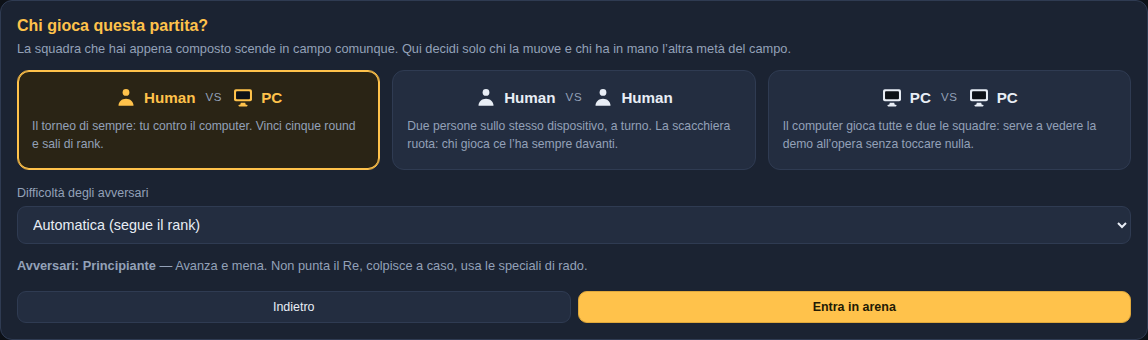
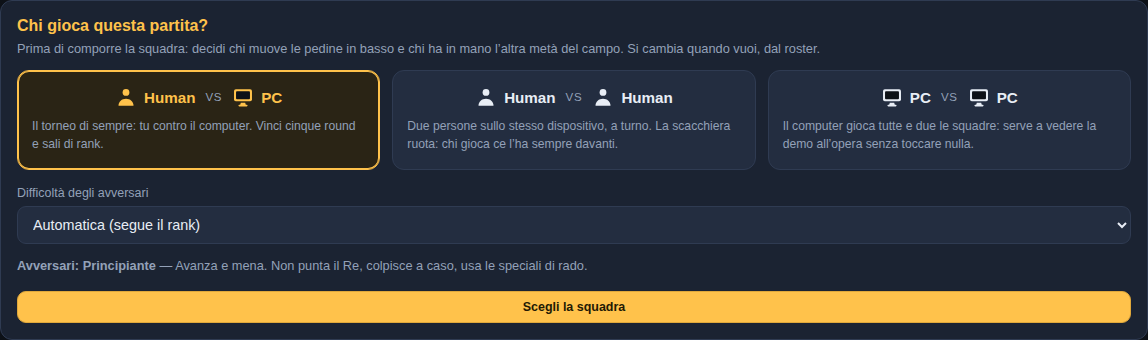
feat(insectron): la scelta di chi gioca apre il gioco
«Chi gioca questa partita?» non sta più dopo il riepilogo della squadra: è la
prima schermata che si vede entrando nel gioco, prima di comporre il quintetto.

- Human vs PC, Human vs Human e PC vs PC (con i livelli dell'IA, e i nomi dei
  due giocatori in Human vs Human) si scelgono all'ingresso
- dal roster una fascia in cima ricorda la modalità scelta, con il pulsante
  «Cambia» che riapre la schermata e una via di ritorno alla squadra
- «Entra in arena» torna a portare dritto in campo; in Human vs Human la
  conferma del primo giocatore passa il dispositivo al secondo
- la modalità viene ricordata nel salvataggio locale: riaprendo il gioco la
  carta giusta è già selezionata

Verifiche: 209 controlli automatici sul gioco (44 sulla schermata di scelta e su
PC vs PC, 32 su Human vs Human, 18 sulla rotazione, più le suite esistenti
riallineate al nuovo ordine), 10 sulla landing, zero falliti, 3 partite di
carriera complete via UI, nessun errore in console, HTMLHint pulito.

Claude-Session: https://claude.ai/code/session_016zpL6b9XJB8AxtfVg9ovRJ

Changed region(s): [[0.0, 0.8529, 0.5488, 0.9706], [0.0, 0.1176, 0.7317, 0.1765], [0.7012, 0.8824, 0.7927, 0.9118]]

diff --git a/demos/insectron-arena/gioca.html b/demos/insectron-arena/gioca.html
@@ -297,9 +297,13 @@ button.danger{border-color:#7d3a3a;color:#ffb3b3}
 .banner b{color:var(--text)}
 .banner.e{border-left-color:var(--foe)}
 .banner .tag{
+  display:inline-flex;align-items:center;gap:6px;white-space:nowrap;
   background:#12354a;border:1px solid var(--ally);color:var(--ally);
   border-radius:999px;padding:3px 11px;font-size:.72rem;font-weight:bold
 }
+.banner .tag .ico{width:15px;height:15px}
+.banner .tag i{font-style:normal;font-weight:normal;opacity:.7;font-size:.66rem;text-transform:uppercase}
+.banner .kbtn{font-size:.72rem;padding:5px 12px}
 .banner.e .tag{background:#4a1c1c;border-color:var(--foe);color:var(--foe)}
 .names{display:flex;gap:12px;flex-wrap:wrap;margin-bottom:14px}
 .names label{flex:1;min-width:190px;font-size:.78rem;color:var(--muted);display:block}
@@ -377,22 +381,22 @@ footer.note a{color:var(--accent2)}
 </header>
 
 <!-- ============ CHI GIOCA: MODALITA E DIFFICOLTA ============ -->
-<section id="s-mode" class="screen">
+<section id="s-mode" class="screen on">
   <div class="card">
     <h2>Chi gioca questa partita?</h2>
-    <p class="hint">La squadra che hai appena composto scende in campo comunque. Qui decidi
-      solo chi la muove e chi ha in mano l’altra metà del campo.</p>
+    <p class="hint">Prima di comporre la squadra: decidi chi muove le pedine in basso e chi
+      ha in mano l’altra metà del campo. Si cambia quando vuoi, dal roster.</p>
     <div class="modes" id="modes" role="group" aria-label="Modalità di gioco"></div>
     <div id="modeopts"></div>
     <div class="acts" style="margin-top:16px">
-      <button id="btn-modeback">Indietro</button>
+      <button id="btn-modeback" hidden>Torna alla squadra</button>
       <button id="btn-modego" class="primary">Entra in arena</button>
     </div>
   </div>
 </section>
 
 <!-- ============ SCHERMATA SQUADRA ============ -->
-<section id="s-team" class="screen on">
+<section id="s-team" class="screen">
   <p class="banner" id="team-who" hidden></p>
   <div class="two">
     <div class="card">
@@ -737,7 +741,7 @@ function save(){
   const k = S.careerHeld ? S.career.king : S.kingId;
   try { localStorage.setItem("insectron", JSON.stringify(
     {r:S.rankIdx, n:S.round, t:t, k:k, c:S.champion ? 1 : 0,
-     a:S.lvl.e||0, ap:S.lvl.p||0})); }
+     a:S.lvl.e||0, ap:S.lvl.p||0, v:S.vs})); }
   catch(e){ /* storage non disponibile: la partita resta valida in sessione */ }
 }
 function load(){
@@ -746,6 +750,7 @@ function load(){
     if (v && Array.isArray(v.t)){
       S.rankIdx = v.r|0; S.round = v.n|0; S.champion = !!v.c;
       S.lvl = { e: (v.a|0) || 0, p: (v.ap|0) || 0 };
+      if (MODES[v.v]) S.vs = v.v;
       S.team = v.t.filter(id => byId[id] && unlocked(byId[id]));
       S.kingId = S.team.includes(v.k) ? v.k : (S.team[0] || null);
     }
@@ -962,16 +967,21 @@ function icoPc(){
 }
 const MODES = {
   hvp: { ico:[icoHuman(), icoPc()],   tit:["Human","PC"],
-         desc:"Il torneo di sempre: tu contro il computer. Vinci cinque round e sali di rank." },
+         desc:"Il torneo di sempre: tu contro il computer. Vinci cinque round e sali di rank.",
+         breve:"Giochi tu contro il computer." },
   hvh: { ico:[icoHuman(), icoHuman()], tit:["Human","Human"],
-         desc:"Due persone sullo stesso dispositivo, a turno. La scacchiera ruota: chi gioca ce l\u2019ha sempre davanti." },
+         desc:"Due persone sullo stesso dispositivo, a turno. La scacchiera ruota: chi gioca ce l\u2019ha sempre davanti.",
+         breve:"Partita in due sullo stesso dispositivo." },
   pvp: { ico:[icoPc(), icoPc()],       tit:["PC","PC"],
-         desc:"Il computer gioca tutte e due le squadre: serve a vedere la demo all\u2019opera senza toccare nulla." }
+         desc:"Il computer gioca tutte e due le squadre: serve a vedere la demo all\u2019opera senza toccare nulla.",
+         breve:"Il computer gioca tutte e due le squadre." }
 };
 const LIVELLI = [[0,"Automatica (segue il rank)"],[1,"Principiante"],[2,"Normale"],[3,"Esperto"],[4,"Campione"]];
-/* Apre la scelta "chi gioca". Arriva dopo la squadra: a quel punto il quintetto
-   e' gia' deciso e resta lo stesso in tutte e tre le modalita'. */
-function openModes(){
+/* Apre la scelta "chi gioca". E' la prima schermata del gioco: si decide chi muove
+   prima ancora di comporre la squadra. Dal roster ci si torna col pulsante "Cambia",
+   e in quel caso compare anche la via di ritorno. */
+function openModes(dalRoster){
+  $("#btn-modeback").hidden = !dalRoster;
   drawModes(); show("s-mode");
 }
 function drawModes(){
@@ -1012,13 +1022,13 @@ function drawModeOpts(){
       '<label for="n1">Nome di chi gioca in basso<input id="n1" maxlength="16" autocomplete="off" value="' + esc(S.names.p) + '"></label>' +
       '<label for="n2">Nome di chi gioca in alto<input id="n2" maxlength="16" autocomplete="off" value="' + esc(S.names.e) + '"></label>' +
       '</div>' +
-      '<p class="hint">La squadra che hai appena composto \u00e8 di chi gioca in basso. ' +
-      'Dopo la conferma sceglie l\u2019altro, senza che tu guardi.</p>';
+      '<p class="hint">Sceglie prima chi gioca in basso; quando ha confermato la sua squadra ' +
+      'tocca all\u2019altro, senza che il primo guardi.</p>';
   } else if (pcMode()){
     el.innerHTML = '<div class="opts">' + sel("lv-p", "Difficolt\u00e0 del PC in basso", "p") +
       sel("lv-e", "Difficolt\u00e0 del PC in alto", "e") + '</div>' +
       '<p class="hint" id="lvdesc"></p>' +
-      '<p class="hint">Il PC in basso gioca la squadra che hai composto tu, quello in alto ' +
+      '<p class="hint">Il PC in basso gioca la squadra che comporrai tu, quello in alto ' +
       'pesca dagli avversari del rank corrente. La partita non conta per il torneo.</p>';
   } else {
     el.innerHTML = '<div class="opts">' + sel("lv-e", "Difficolt\u00e0 degli avversari", "e") + '</div>' +
@@ -1029,7 +1039,7 @@ function drawModeOpts(){
     if (s2) s2.onchange = ev => { S.lvl[side] = parseInt(ev.target.value, 10) || 0; save(); lvDesc(); };
   });
   const go = $("#btn-modego");
-  go.textContent = duoMode() ? "Passa la scelta all\u2019altro giocatore" : "Entra in arena";
+  go.textContent = duoMode() ? "Scegliete le squadre" : "Scegli la squadra";
   lvDesc();
 }
 function lvDesc(){
@@ -1041,21 +1051,20 @@ function lvDesc(){
   });
   el.innerHTML = righe.join("<br>");
 }
+/* Confermata la modalita' si passa al roster. La partita comincia piu' tardi, dal
+   riepilogo, quando la squadra (o le squadre) sono pronte. */
 function modeGo(){
   if (duoMode()){
     const leggi = (id, def) => (($(id) && $(id).value) || "").trim().slice(0,16) || def;
     S.names.p = leggi("#n1", "Giocatore 1");
     S.names.e = leggi("#n2", "Giocatore 2");
-    S.duo = { p:{ team: S.team.slice(), king: S.kingId }, e:{ team:[], king:null } };
-    S.career = { team: S.team.slice(), king: S.kingId };   /* la squadra del torneo resta questa */
-    S.careerHeld = true;                                   /* protetta finche' non si torna al roster */
-    passTo("e", "Scegli la squadra",
-      "Adesso tocca a te: cinque pedine e il Re, senza far guardare l\u2019altro.",
-      () => enterSetup("e"));
-    return;
+    S.duo = { p:{ team:[], king:null }, e:{ team:[], king:null } };
   }
   save();
-  if (pcMode()) startPvp(); else startBattle();
+  backToCareer();                                 /* se si arriva da una partita in due */
+  S.setup = "p";
+  drawWho(); drawRoster(); drawSlots(); detail(S.look ? byId[S.look] : null);
+  show("s-team");
 }
 function enterSetup(side){
   S.setup = side;
@@ -1076,13 +1085,28 @@ function backToCareer(){
    capisce piu' di chi sia la squadra a schermo. */
 function drawWho(){
   const duo = duoMode() && S.setup === "e", side = S.setup;
-  [["#team-who", "sceglie la squadra"], ["#brief-who", "controlla la squadra e nomina il Re"]].forEach(([sel, txt]) => {
-    const el = $(sel); if (!el) return;
-    el.hidden = !duo;
-    el.className = "banner" + (side === "e" ? " e" : "");
-    if (duo) el.innerHTML = '<span class="tag">' + (side === "p" ? "In basso" : "In alto") +
-      '</span><span><b>' + esc(nameOf(side)) + '</b> ' + txt + '. L\u2019altro giocatore non deve guardare.</span>';
-  });
+  const m = MODES[S.vs];
+  const chi = '<span class="tag">' + m.ico[0] + m.tit[0] + ' <i>vs</i> ' + m.ico[1] + m.tit[1] + '</span>';
+  /* Sul roster il banner ricorda la modalita' scelta e offre la via per cambiarla;
+     quando sta scegliendo il secondo giocatore dice invece di chi e' il turno. */
+  const team = $("#team-who");
+  if (team){
+    team.hidden = false;
+    team.className = "banner" + (duo ? " e" : "");
+    team.innerHTML = chi + '<span>' + (duo
+      ? '<b>' + esc(nameOf(side)) + '</b> sceglie la squadra. L\u2019altro giocatore non deve guardare.'
+      : m.breve) + '</span>' +
+      (duo ? '' : '<span class="spacer"></span><button class="kbtn" id="btn-chmode">Cambia</button>');
+    const ch = $("#btn-chmode");
+    if (ch) ch.onclick = () => openModes(true);
+  }
+  const brief = $("#brief-who");
+  if (brief){
+    brief.hidden = !duo;
+    brief.className = "banner e";
+    if (duo) brief.innerHTML = chi + '<span><b>' + esc(nameOf(side)) +
+      '</b> controlla la squadra e nomina il Re. L\u2019altro giocatore non deve guardare.</span>';
+  }
   const t = $("#brief-title");
   if (t) t.textContent = duo && side === "e" ? "La squadra di " + nameOf(side) : "La tua squadra";
   const a = $("#btn-toarena");
@@ -2145,14 +2169,26 @@ function leaveMatch(){ S.matchMode = "hvp"; updBadges(); }
 
 $("#btn-start").onclick = () => { drawWho(); drawBrief(); show("s-brief"); };
 $("#btn-back").onclick = () => { drawWho(); drawRoster(); drawSlots(); show("s-team"); };
-/* Dal riepilogo non si entra piu' dritti in campo: prima si sceglie chi gioca.
-   L'unica eccezione e' il secondo giocatore di una partita in due, che a quel
-   punto la modalita' ce l'ha gia' e passa allo schieramento. */
+/* Dal riepilogo si scende in campo. In due giocatori il primo, confermando, passa
+   il dispositivo all'altro: si scende in campo quando anche la seconda squadra c'e'. */
 $("#btn-toarena").onclick = () => {
-  if (duoMode() && S.setup === "e"){ commitSetup(); startDuo(); return; }
-  openModes();
+  if (duoMode()){
+    commitSetup();
+    if (S.setup === "p"){
+      S.career = { team: S.team.slice(), king: S.kingId };  /* la squadra del torneo resta questa */
+      S.careerHeld = true;                                  /* protetta finche' non si torna al roster */
+      passTo("e", "Scegli la squadra",
+        "Adesso tocca a te: cinque pedine e il Re, senza far guardare l\u2019altro.",
+        () => enterSetup("e"));
+    } else {
+      startDuo();
+    }
+    return;
+  }
+  if (pcMode()){ startPvp(); return; }
+  startBattle();
 };
-$("#btn-modeback").onclick = () => { drawWho(); drawBrief(); show("s-brief"); };
+$("#btn-modeback").onclick = () => { drawWho(); drawRoster(); drawSlots(); show("s-team"); };
 $("#btn-modego").onclick = modeGo;
 $("#btn-pass").onclick = passDone;
 $("#btn-newteams").onclick = () => {
@@ -2201,7 +2237,7 @@ $("#btn-reset").onclick = () => {
   save(); updBadges(); drawRoster(); drawSlots(); show("s-team");
 };
 
-load(); updBadges(); drawRoster(); drawSlots(); detail(null);
+load(); updBadges(); drawRoster(); drawSlots(); detail(null); drawModes();
 </script>
 </body>
 </html>

diff --git a/demos/insectron-arena/index.html b/demos/insectron-arena/index.html
@@ -163,7 +163,7 @@ footer p{margin-bottom:9px}
       </div>
       <div class="card">
         <h3>Scegli chi gioca</h3>
-        <p>Composta la squadra, decidi la partita: <b>Human vs PC</b> per il torneo, <b>Human vs Human</b> sullo stesso dispositivo, <b>PC vs PC</b> per guardarla giocare da sola. Col computer in campo scegli anche quanto è bravo.</p>
+        <p>È la prima cosa che vedi: <b>Human vs PC</b> per il torneo, <b>Human vs Human</b> sullo stesso dispositivo, <b>PC vs PC</b> per guardarla giocare da sola. Col computer in campo scegli anche quanto è bravo.</p>
       </div>
       <div class="card">
         <h3>In due, a turno</h3>
@@ -195,7 +195,7 @@ footer p{margin-bottom:9px}
       <figure>
         <img src="img/modalita.png" width="1148" height="340" loading="lazy"
              alt="Schermata di scelta: tre carte affiancate, Human contro PC, Human contro Human e PC contro PC, ognuna con le icone di chi gioca, e sotto il selettore della difficoltà.">
-        <figcaption>Chi gioca questa partita. Le icone dicono a colpo d'occhio chi muove le due squadre.</figcaption>
+        <figcaption>La prima schermata del gioco. Le icone dicono a colpo d'occhio chi muove le due squadre.</figcaption>
       </figure>
       <figure>
         <img src="img/due-giocatori.png" width="1220" height="760" loading="lazy"
@@ -223,7 +223,7 @@ footer p{margin-bottom:9px}
     </table>
     <ul class="clean" style="margin-top:26px">
       <li><b>1800 battaglie simulate</b> a ogni modifica delle regole, per tenere l'equilibrio sotto controllo.</li>
-      <li><b>200 controlli automatici</b> su meccaniche, schieramento, movimento, difficoltà, accessibilità, scelta della modalità, partita in due e rotazione della scacchiera.</li>
+      <li><b>209 controlli automatici</b> su meccaniche, schieramento, movimento, difficoltà, accessibilità, scelta della modalità, partita in due e rotazione della scacchiera.</li>
       <li><b>Si gioca anche solo da tastiera.</b> La scacchiera è una griglia ARIA: frecce per muoversi, Invio per selezionare, e ogni casella ha un nome parlato per chi usa uno screen reader.</li>
     </ul>
   </div>

diff --git a/demos/insectron-arena/README.md b/demos/insectron-arena/README.md
@@ -88,18 +88,19 @@ Altre correzioni che la FAQ ha imposto:
 
 Quattro passaggi, ognuno con le informazioni che servono a decidere:
 
-1. **Roster.** Toccando un Insector si apre a destra la sua **scheda**: ruolo in campo,
+1. **Chi gioca.** È la prima schermata: si sceglie fra Human vs PC, Human vs Human e
+   PC vs PC, e con un computer in campo il suo livello (vedi «Chi gioca: le tre
+   modalita'»). Dal roster si torna a cambiarla quando si vuole.
+2. **Roster.** Toccando un Insector si apre a destra la sua **scheda**: ruolo in campo,
    vita/forza/difesa, danno d'attacco, movimento, mossa speciale e relativo danno. Si
    entra in squadra solo confermando con il pulsante — un tocco non impegna a nulla.
-2. **Riepilogo squadra.** Le cinque pedine affiancate con le stesse informazioni, ed è
+   In alto una fascia ricorda chi gioca, con il pulsante per cambiare.
+3. **Riepilogo squadra.** Le cinque pedine affiancate con le stesse informazioni, ed è
    qui che si **nomina il Re**. Finché non lo scegli non si entra in arena.
-3. **Chi gioca.** «Entra in arena» non porta piu' dritto in campo: prima si sceglie
-   fra Human vs PC, Human vs Human e PC vs PC, e con un computer in campo il suo
-   livello (vedi «Chi gioca: le tre modalita'»).
 4. **Schieramento.** Le pedine si posizionano sulle due file di casa — tranne in
    PC vs PC, dove le mette in fila il gioco.
 
-In Human vs Human i primi due passaggi li rifa' anche il secondo giocatore, con una
+In Human vs Human i passaggi 2 e 3 li rifa' anche il secondo giocatore, con una
 schermata di consegna in mezzo.
 
 In battaglia, selezionando una pedina il pannello mostra **danno d'attacco, danno della
@@ -126,9 +127,11 @@ parte (che la rotazione le mostra in basso); in PC vs PC non si schiera affatto.
 
 ## Chi gioca: le tre modalita'
 
-La scelta arriva **dopo** il riepilogo della squadra: si preme «Entra in arena» e prima
-del campo compare la schermata «Chi gioca questa partita?». La squadra appena composta
-scende in campo in tutti e tre i casi; qui si decide solo chi la muove.
+La scelta e' la **prima schermata del gioco**, prima ancora di comporre la squadra: si
+apre `gioca.html` e compare «Chi gioca questa partita?». Da li' si passa al roster, e
+la fascia in cima al roster ricorda la modalita' scelta con un pulsante **Cambia** per
+tornare indietro. La scelta viene ricordata nel salvataggio locale, quindi riaprendo il
+gioco la carta giusta e' gia' selezionata.
 
 | Modalita' | Chi muove | A cosa serve |
 |---|---|---|
@@ -150,8 +153,8 @@ cosa si sta per affrontare prima di entrare in campo.
 
 ### Human vs Human
 
-1. **Squadre in privato.** La squadra gia' composta e' di chi gioca in basso; dopo la
-   conferma una schermata di consegna copre tutto e sceglie l'altro.
+1. **Squadre in privato.** Compone prima chi gioca in basso; quando conferma il suo
+   quintetto una schermata di consegna copre tutto e tocca all'altro.
 2. **Schieramento al coperto.** Ognuno schiera nelle due file dalla sua parte; finche'
    si schiera, **le pedine dell'altro non sono disegnate**. Le due zone non si
    sovrappongono, quindi nessuno puo' dedurne la posizione provando a occupare una
@@ -389,8 +392,8 @@ sui titoli.
   la card di battaglia riporta danno d'attacco, danno speciale e movimento residuo
 - 4 controlli sul campo rettangolare: 5 colonne, 7 file, e i limiti su entrambi gli assi
 
-- 30 controlli automatici su Human vs Human: la scelta della modalità compare solo
-  dopo «Entra in arena»; le consegne nominano il giocatore giusto a ogni passaggio; a
+- 32 controlli automatici su Human vs Human: la modalità si sceglie entrando nel gioco
+  e la fascia del roster la ricorda; le consegne nominano il giocatore giusto a ogni passaggio; a
   inizio schieramento il campo è vuoto e si vedono solo le cinque pedine di chi sta
   schierando; ognuno schiera nella propria metà; a battaglia iniziata compaiono tutte e
   dieci; non si seleziona una pedina avversaria; «Fine turno» è attivo per tutti e due;
@@ -399,8 +402,10 @@ sui titoli.
   intatta, nel salvataggio e a schermo, e i badge del torneo ricompaiono. Nessun
   errore in console.
 
-- 37 controlli automatici sulla schermata «Chi gioca» e su PC vs PC: la testata non ha
-  più selettori; le tre carte sono nell'ordine giusto con le etichette chieste e
+- 44 controlli automatici sulla schermata «Chi gioca» e su PC vs PC: è la prima
+  schermata del gioco, la testata non ha selettori, il pulsante «Cambia» del roster la
+  riapre con il ritorno alla squadra e la scelta sopravvive al ricaricamento; le tre
+  carte sono nell'ordine giusto con le etichette chieste e
   l'icona accanto a ogni parola (umana accanto a «Human», monitor accanto a «PC»);
   sotto le carte compaiono i nomi in Human vs Human, un livello in Human vs PC e due in
   PC vs PC, con la descrizione del profilo che segue la scelta; i livelli scelti
@@ -460,9 +465,9 @@ sui titoli.
 - Layout verificato a 1280px e 390px, nessuno scroll orizzontale, schermate nuove
   comprese (scelta della modalità, consegna, squadra del secondo giocatore,
   schieramento a scacchiera girata)
-- Totale dei controlli automatici sul gioco: **200** (meccaniche 30, schieramento 20,
+- Totale dei controlli automatici sul gioco: **209** (meccaniche 30, schieramento 20,
   schede 22, accessibilità 14, difficoltà 10, movimento 13, scheda del roster 6,
-  Human vs Human 30, modalità e PC vs PC 37, rotazione 18), più 10 sulla landing
+  Human vs Human 32, modalità e PC vs PC 44, rotazione 18), più 10 sulla landing
 - Animazioni: affondo, scossa, numero di danno, proiettile, onda, movimento e ring-out
   verificati attivi nel browser; 3 partite complete giocate via UI senza errori in console
   e senza token fantasma rimasti sul campo
